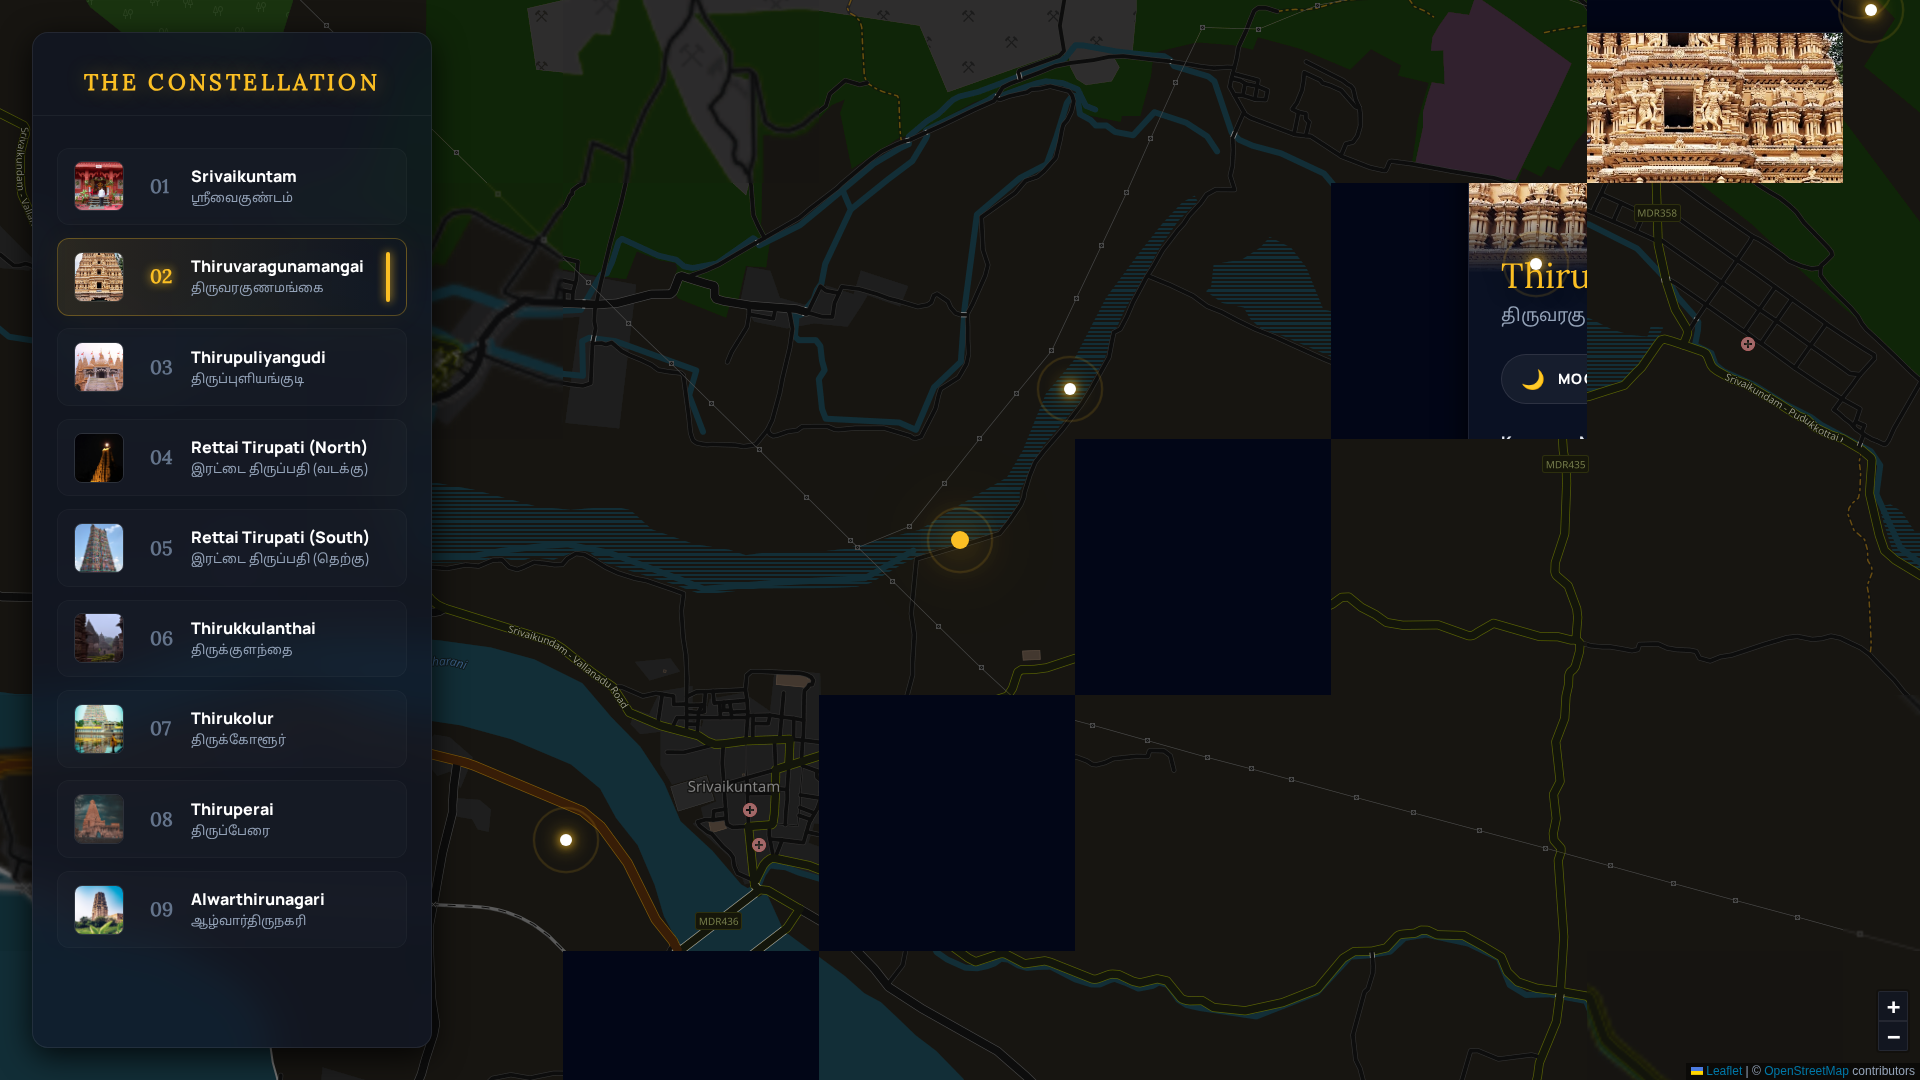
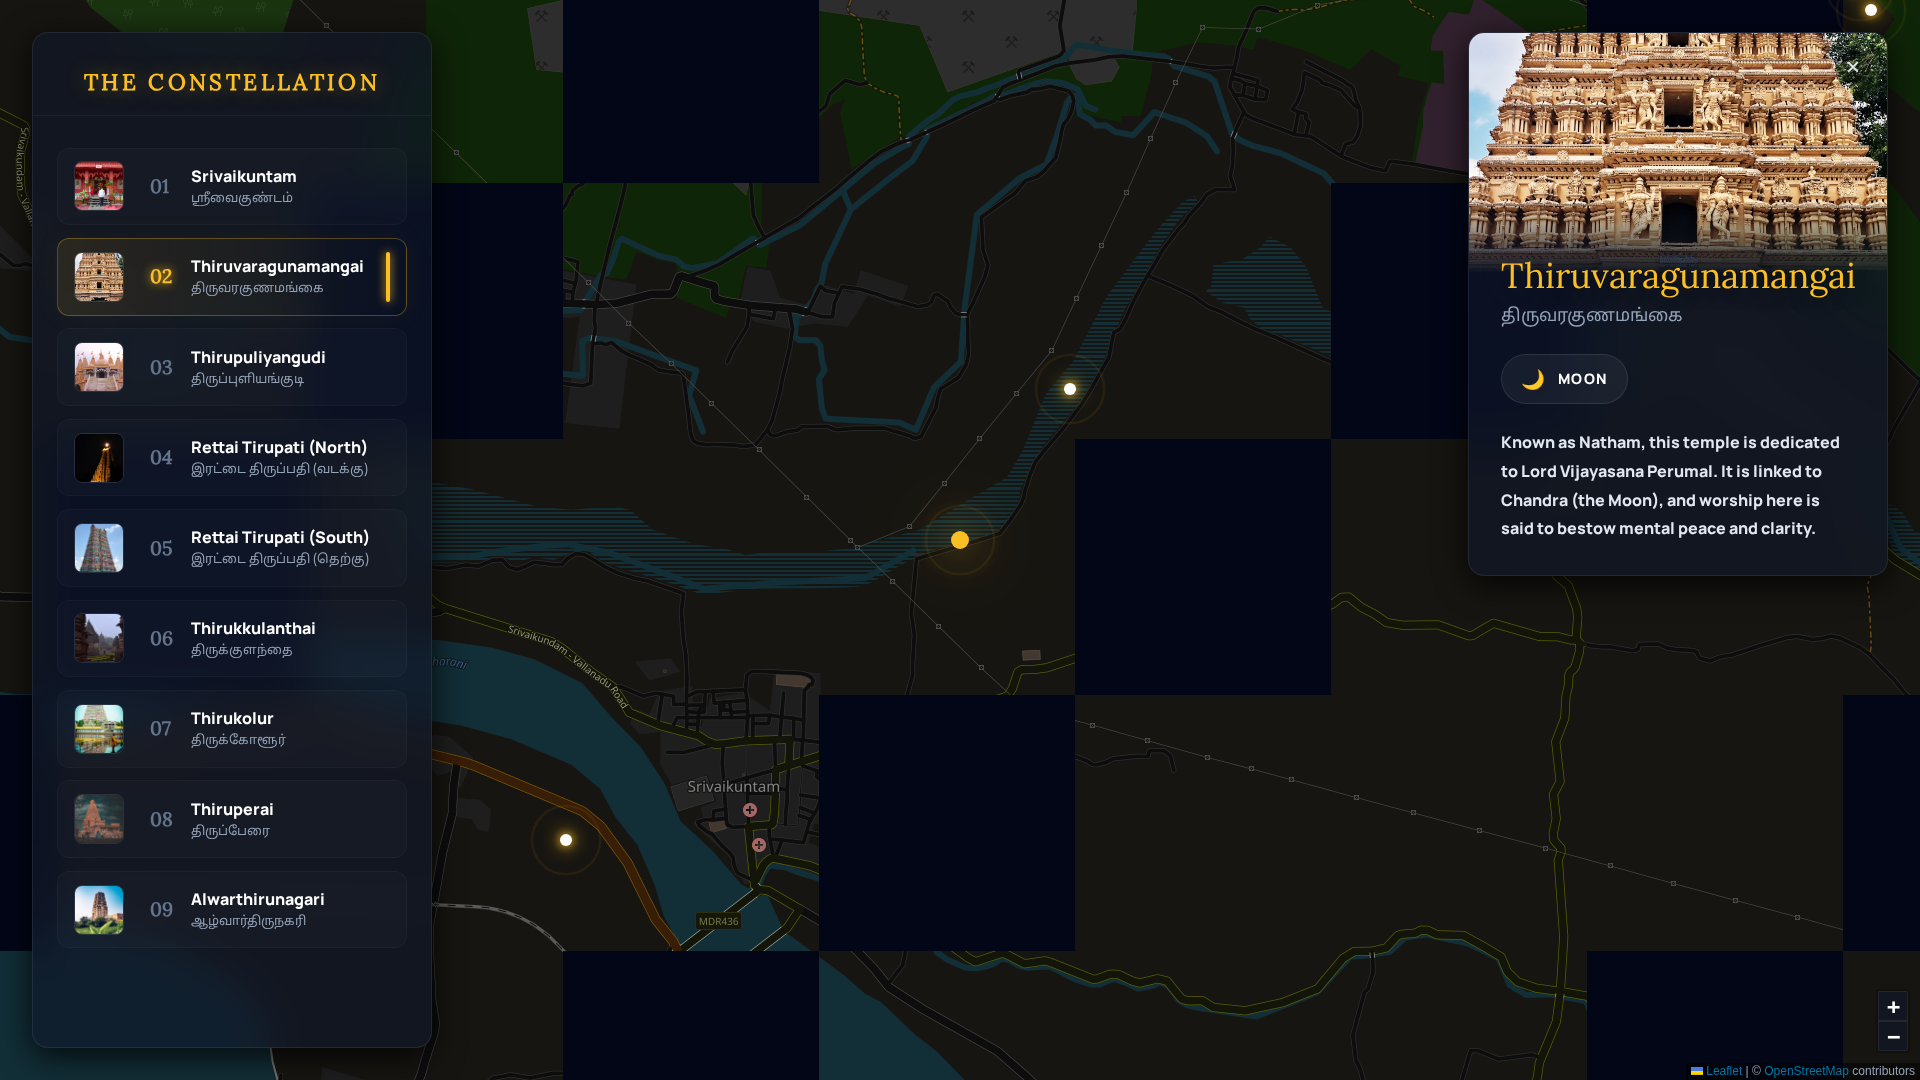
Fix map tile and modal overlapping issue by isolating map stacking context

diff --git a/index.html b/index.html
@@ -215,6 +215,8 @@
             width: 100%;
             height: 100%;
             background: var(--color-bg-deep);
+            position: relative; /* Ensure z-index works */
+            z-index: 0; /* Create stacking context */
         }
 
         /* Dark Mode Map Filters */
